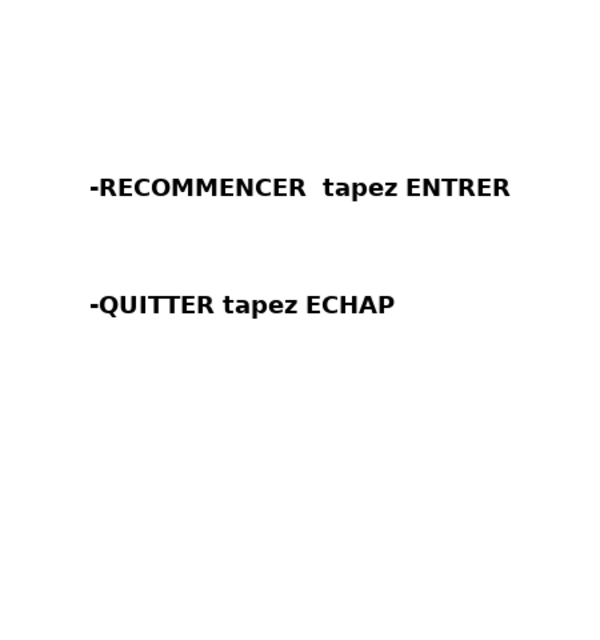
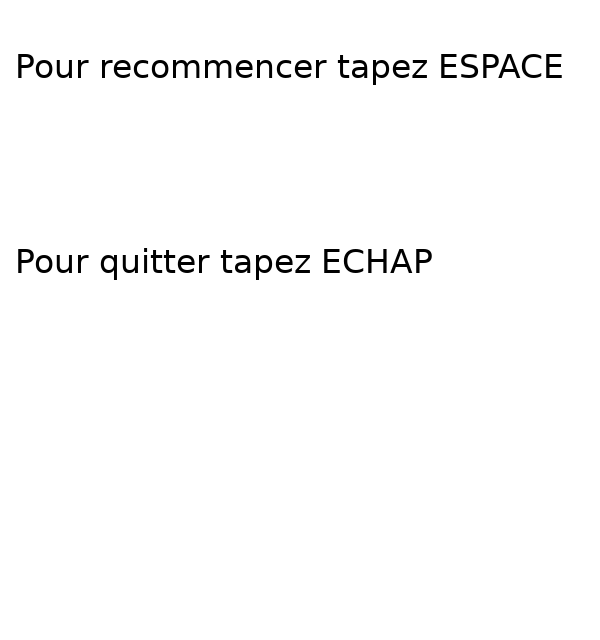
programme fonctionnel

diff --git a/class_engine.py b/class_engine.py
@@ -9,19 +9,10 @@ from class_map import *
 import sys
 
 
-
 class Engine:
 
     def __init__(self):
         self.position_hero = []
-        #self.hero = pygame.image.load("images/MacGyver.png").convert()
-
-        #self.window = Map.window
-        self.hero_up = pygame.image.load("images/personnage/up.png").convert_alpha()
-        self.hero_down = pygame.image.load("images/personnage/down.png").convert_alpha()
-        self.hero_right = pygame.image.load("images/personnage/right.png").convert_alpha()
-        self.hero_left = pygame.image.load("images/personnage/left.png").convert_alpha()
-        self.orientation = self.hero_down
 
     def position_of_hero(self, structure):
         for element in structure:
@@ -30,12 +21,7 @@ class Engine:
                     self.position_hero.append(item[0])
                     self.position_hero.append(item[1])
 
-        #x = position_hero[0]
-        #y = position_hero[1]
-
     def movement(self,structure, key):
-
-
         if key == 1:
             if (self.position_hero[1] + 1) < structure.nb_sprite:
                 if structure.matrix[self.position_hero[1] + 1][self.position_hero[0]][2] != "m":
@@ -45,7 +31,7 @@ class Engine:
                                           (self.position_hero[0] * structure.sprite_size,
                                            self.position_hero[1] * structure.sprite_size))
         if key == 2:
-            if (self.position_hero[1] - 1) < structure.nb_sprite:
+            if (self.position_hero[1] - 1) >= 0:
                 if structure.matrix[self.position_hero[1] - 1][self.position_hero[0]][2] != "m":
                     self.position_hero[1] -= 1
                     self.orientation = self.hero_up
@@ -79,13 +65,12 @@ class Engine:
         POSITIONBRAVO = BRAVO.get_rect()
         POSITIONBRAVO.center = 225, 225
         GAMEOVER = pygame.image.load("images/game_over.png").convert_alpha()
-        POSITIONGAMEOVER = GAMEOVER.get_rect()
-        POSITIONGAMEOVER.center = 225, 225
+        position_gameover = GAMEOVER.get_rect()
+        position_gameover.center = 225, 225
         if structure.matrix[self.position_hero[1]][self.position_hero[0]][2] == "a" and catalog == 3:
             structure.window.blit(self.hero_down,
                                   (self.position_hero[0]*structure.sprite_size,
                                    self.position_hero[1]*structure.sprite_size))
-
             structure.window.blit(BRAVO, (POSITIONBRAVO))
             pygame.display.flip()
             pygame.time.wait(1000)
@@ -98,28 +83,29 @@ class Engine:
                                   (self.position_hero[0]*structure.sprite_size,
                                    self.position_hero[1]*structure.sprite_size))
             pygame.time.wait(1000)
-            structure.window.blit(GAMEOVER, (POSITIONGAMEOVER))
+            structure.window.blit(GAMEOVER, (position_gameover))
             pygame.display.flip()
             pygame.time.wait(1000)
             continuer = 0
-            # structure.display_quit()
         return continuer
-
 
     def game(self):
         pygame.display.init()
         Laby = Map()
-        Hero = Engine()
-
+        self.hero_up = pygame.image.load("images/personnage/up.png").convert_alpha()
+        self.hero_down = pygame.image.load("images/personnage/down.png").convert_alpha()
+        self.hero_right = pygame.image.load("images/personnage/right.png").convert_alpha()
+        self.hero_left = pygame.image.load("images/personnage/left.png").convert_alpha()
+        self.orientation = self.hero_down
         Laby.display_home()
         level = Laby.display_level()
         Laby.map_structure(level)
         Laby.object_random()
         Laby.display_map()
-        Hero.position_of_hero(Laby.matrix)
-        Laby.window.blit(Hero.orientation,
-                         (Hero.position_hero[0] * Laby.sprite_size,
-                          Hero.position_hero[1] * Laby.sprite_size))
+        self.position_of_hero(Laby.matrix)
+        Laby.window.blit(self.orientation,
+                         (self.position_hero[0] * Laby.sprite_size,
+                          self.position_hero[1] * Laby.sprite_size))
         pygame.display.flip()
         inventory = 0
         continuer = 1
@@ -127,37 +113,37 @@ class Engine:
 
             Laby.display_map()
             pygame.time.Clock().tick(30)
-            Laby.window.blit(Hero.orientation,
-                             (Hero.position_hero[0] * Laby.sprite_size,
-                              Hero.position_hero[1] * Laby.sprite_size))
+            Laby.window.blit(self.orientation,
+                             (self.position_hero[0] * Laby.sprite_size,
+                              self.position_hero[1] * Laby.sprite_size))
             for event in pygame.event.get():
                 if event.type == KEYDOWN:
                     if event.key == K_ESCAPE:
                         continuer = 0
                     if event.key == K_DOWN:
-                        Hero.movement(Laby, 1)
+                        self.movement(Laby, 1)
                     if event.key == K_UP:
-                        Hero.movement(Laby, 2)
+                        self.movement(Laby, 2)
                         pygame.display.flip()
                     if event.key == K_RIGHT:
-                        Hero.movement(Laby, 3)
+                        self.movement(Laby, 3)
                     if event.key == K_LEFT:
-                        Hero.movement(Laby, 4)
-                    if Laby.matrix[Hero.position_hero[1]][Hero.position_hero[0]][2] == "ether":
-                        Laby.matrix[Hero.position_hero[1]][Hero.position_hero[0]][2] = "o"
+                        self.movement(Laby, 4)
+                    if Laby.matrix[self.position_hero[1]][self.position_hero[0]][2] == "ether":
+                        Laby.matrix[self.position_hero[1]][self.position_hero[0]][2] = "o"
                         Laby.window.blit(Laby.ether, (0, 600))
                         inventory += 1
-                    if Laby.matrix[Hero.position_hero[1]][Hero.position_hero[0]][2] == "needle":
-                        Laby.matrix[Hero.position_hero[1]][Hero.position_hero[0]][2] = "o"
+                    if Laby.matrix[self.position_hero[1]][self.position_hero[0]][2] == "needle":
+                        Laby.matrix[self.position_hero[1]][self.position_hero[0]][2] = "o"
                         Laby.window.blit(Laby.needle, (50, 600))
                         inventory += 1
-                    if Laby.matrix[Hero.position_hero[1]][Hero.position_hero[0]][2] == "tube":
-                        Laby.matrix[Hero.position_hero[1]][Hero.position_hero[0]][2] = "o"
+                    if Laby.matrix[self.position_hero[1]][self.position_hero[0]][2] == "tube":
+                        Laby.matrix[self.position_hero[1]][self.position_hero[0]][2] = "o"
                         Laby.window.blit(Laby.tube, (100, 600))
                         inventory += 1
                     Laby.display_map()
-                    Hero.end(Laby, inventory, continuer)
-            continuer = Hero.end(Laby, inventory, continuer)
+                    self.end(Laby, inventory, continuer)
+            continuer = self.end(Laby, inventory, continuer)
             if continuer == 0:
                 Laby.display_quit(self)
             pygame.display.flip()

diff --git a/class_map.py b/class_map.py
@@ -31,7 +31,7 @@ class Map:
         self.tube = pygame.image.load("images/tube.png").convert_alpha()
         self.villain = pygame.image.load("images/villain_ico.png").convert_alpha()
         self.home = pygame.image.load("images/home.jpg").convert_alpha()
-        self.menu = pygame.image.load("images/menu1.png").convert_alpha()
+        self.menu = pygame.image.load("images/menu.png").convert_alpha()
         self.after_game = pygame.image.load("images/after_game.png").convert_alpha()
         self.menu2 = pygame.image.load("images/menu2.png").convert_alpha()
 
@@ -113,20 +113,20 @@ class Map:
 
     def display_home(self):
         self.window.blit(self.home, (0, 0))
-        self.window.blit(self.menu, (142, 340))
+        self.window.blit(self.menu, (142, 420))
         pygame.display.flip()
         continuer = 1
         while continuer:
             for event in pygame.event.get():
                 if event.type == KEYDOWN:
-                    if event.key == K_RETURN:
+                    if event.key == K_SPACE:
                         continuer = 0
                     if event.key == K_ESCAPE:
                         sys.exit(0)
 
     def display_level(self):
         self.window.blit(self.home, (0, 0))
-        self.window.blit(self.menu2, (142, 340))
+        self.window.blit(self.menu2, (142, 370))
         pygame.display.flip()
         continu = 1
         while continu:
@@ -151,7 +151,7 @@ class Map:
         while loop:
             for event in pygame.event.get():
                 if event.type == KEYDOWN:
-                    if event.key == K_RETURN:
+                    if event.key == K_SPACE:
                         fonct.game()
                         loop = 0
                     if event.key == K_ESCAPE:

diff --git a/thelabyrinth.py b/thelabyrinth.py
@@ -14,6 +14,6 @@ import sys
 if __name__ == "__main__":
 
 
-    #Hero = Engine()
-    #Hero.game()
-    Engine.game(Engine)
+    Hero = Engine()
+    Hero.game()
+    #Engine.game(Engine)
